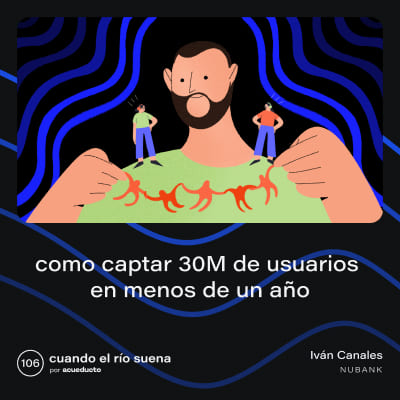
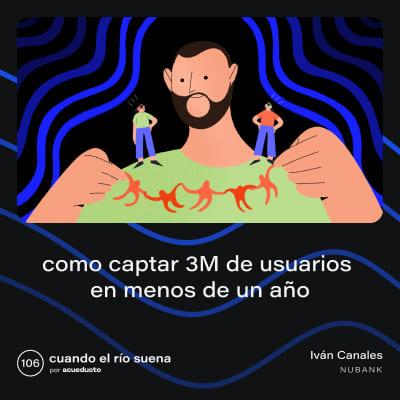
Como captar 3M de usuarios en menos de un año

Changed region(s): [[0.09, 0.63, 0.9, 0.69]]

diff --git a/_episodios/como-captar-3m-de-usuarios-en-menos-de-un-ano.md b/_episodios/como-captar-3m-de-usuarios-en-menos-de-un-ano.md
@@ -1,18 +1,18 @@
 ---
 episode: 106
 date: "2023-08-07"
-title: Como captar 30M de usuarios en menos de un año
+title: Como captar 3M de usuarios en menos de un año
 guest: Iván Canales
 business: Nubank
 category: Operador
-description: Bienvenido a un episodio con Iván Canales, General Manager en Nu Mexico, la división mexicana de Nubank, la fintech más exitosa en el ecosistema de startups de LATAM.
+description: Bienvenido a un episodio con Iván Canales, General Manager en Nu Mexico, la división mexicana de Nubank, el servicio bancario digital más exitoso de Latinoamérica.
 insights:
   - <b>Ten en tu equipo alguien que te tenga la confianza para señalarte cuando necesitas un descanso</b>
   - <b>Los equipos de producto y soporte conviven día a día para construir productos increíbles </b>
   - <b>La gran diferencia entre una empresa pública y una privada radica en cómo se reporta a sus inversionistas</b>
   - <b>Para que un equipo tome decisiones en la dirección correcta es importante sobrecomunicar tus objetivos y que esperas del equipo</b>
 spotify: https://open.spotify.com/episode/16nMH6S9ihiRC9mZ5aUlWg
-apple: https://podcasts.apple.com/us/podcast/e106-como-captar-30m-de-usuarios-en-menos-de-un/id1500473556?i=1000623646748
+apple: https://podcasts.apple.com/us/podcast/e106-como-captar-3m-de-usuarios-en-menos-de-un/id1500473556?i=1000623646748
 google: https://podcasts.google.com/feed/aHR0cHM6Ly9mZWVkcy5idXp6c3Byb3V0LmNvbS84OTU5NzIucnNz/episode/QnV6enNwcm91dC0xMzM1NTA3Nw?sa=X&ved=0CAUQkfYCahcKEwioitO9gMuAAxUAAAAAHQAAAAAQAQ
 youtube: https://www.youtube.com/watch?v=8c-0swlob48
 ---
